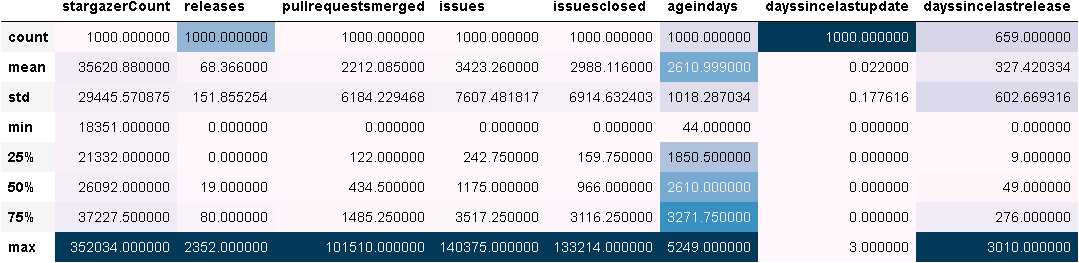
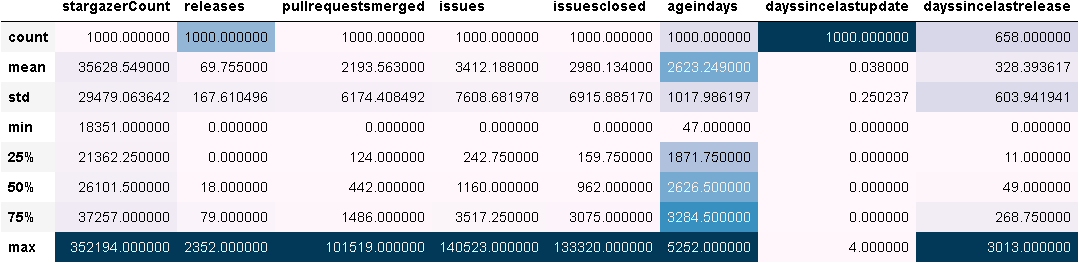
Lab 01 finished

diff --git a/ScriptWithPagination.py b/ScriptWithPagination.py
@@ -252,9 +252,9 @@ def paginationLoop():
     return resultArray
 
 def main():
-    #resultArray = paginationLoop()
-    #saveJsonResult(resultArray)
-    #saveInCSV(resultArray)
+    resultArray = paginationLoop()
+    saveJsonResult(resultArray)
+    saveInCSV(resultArray)
     saveInfo()
 
 main()
